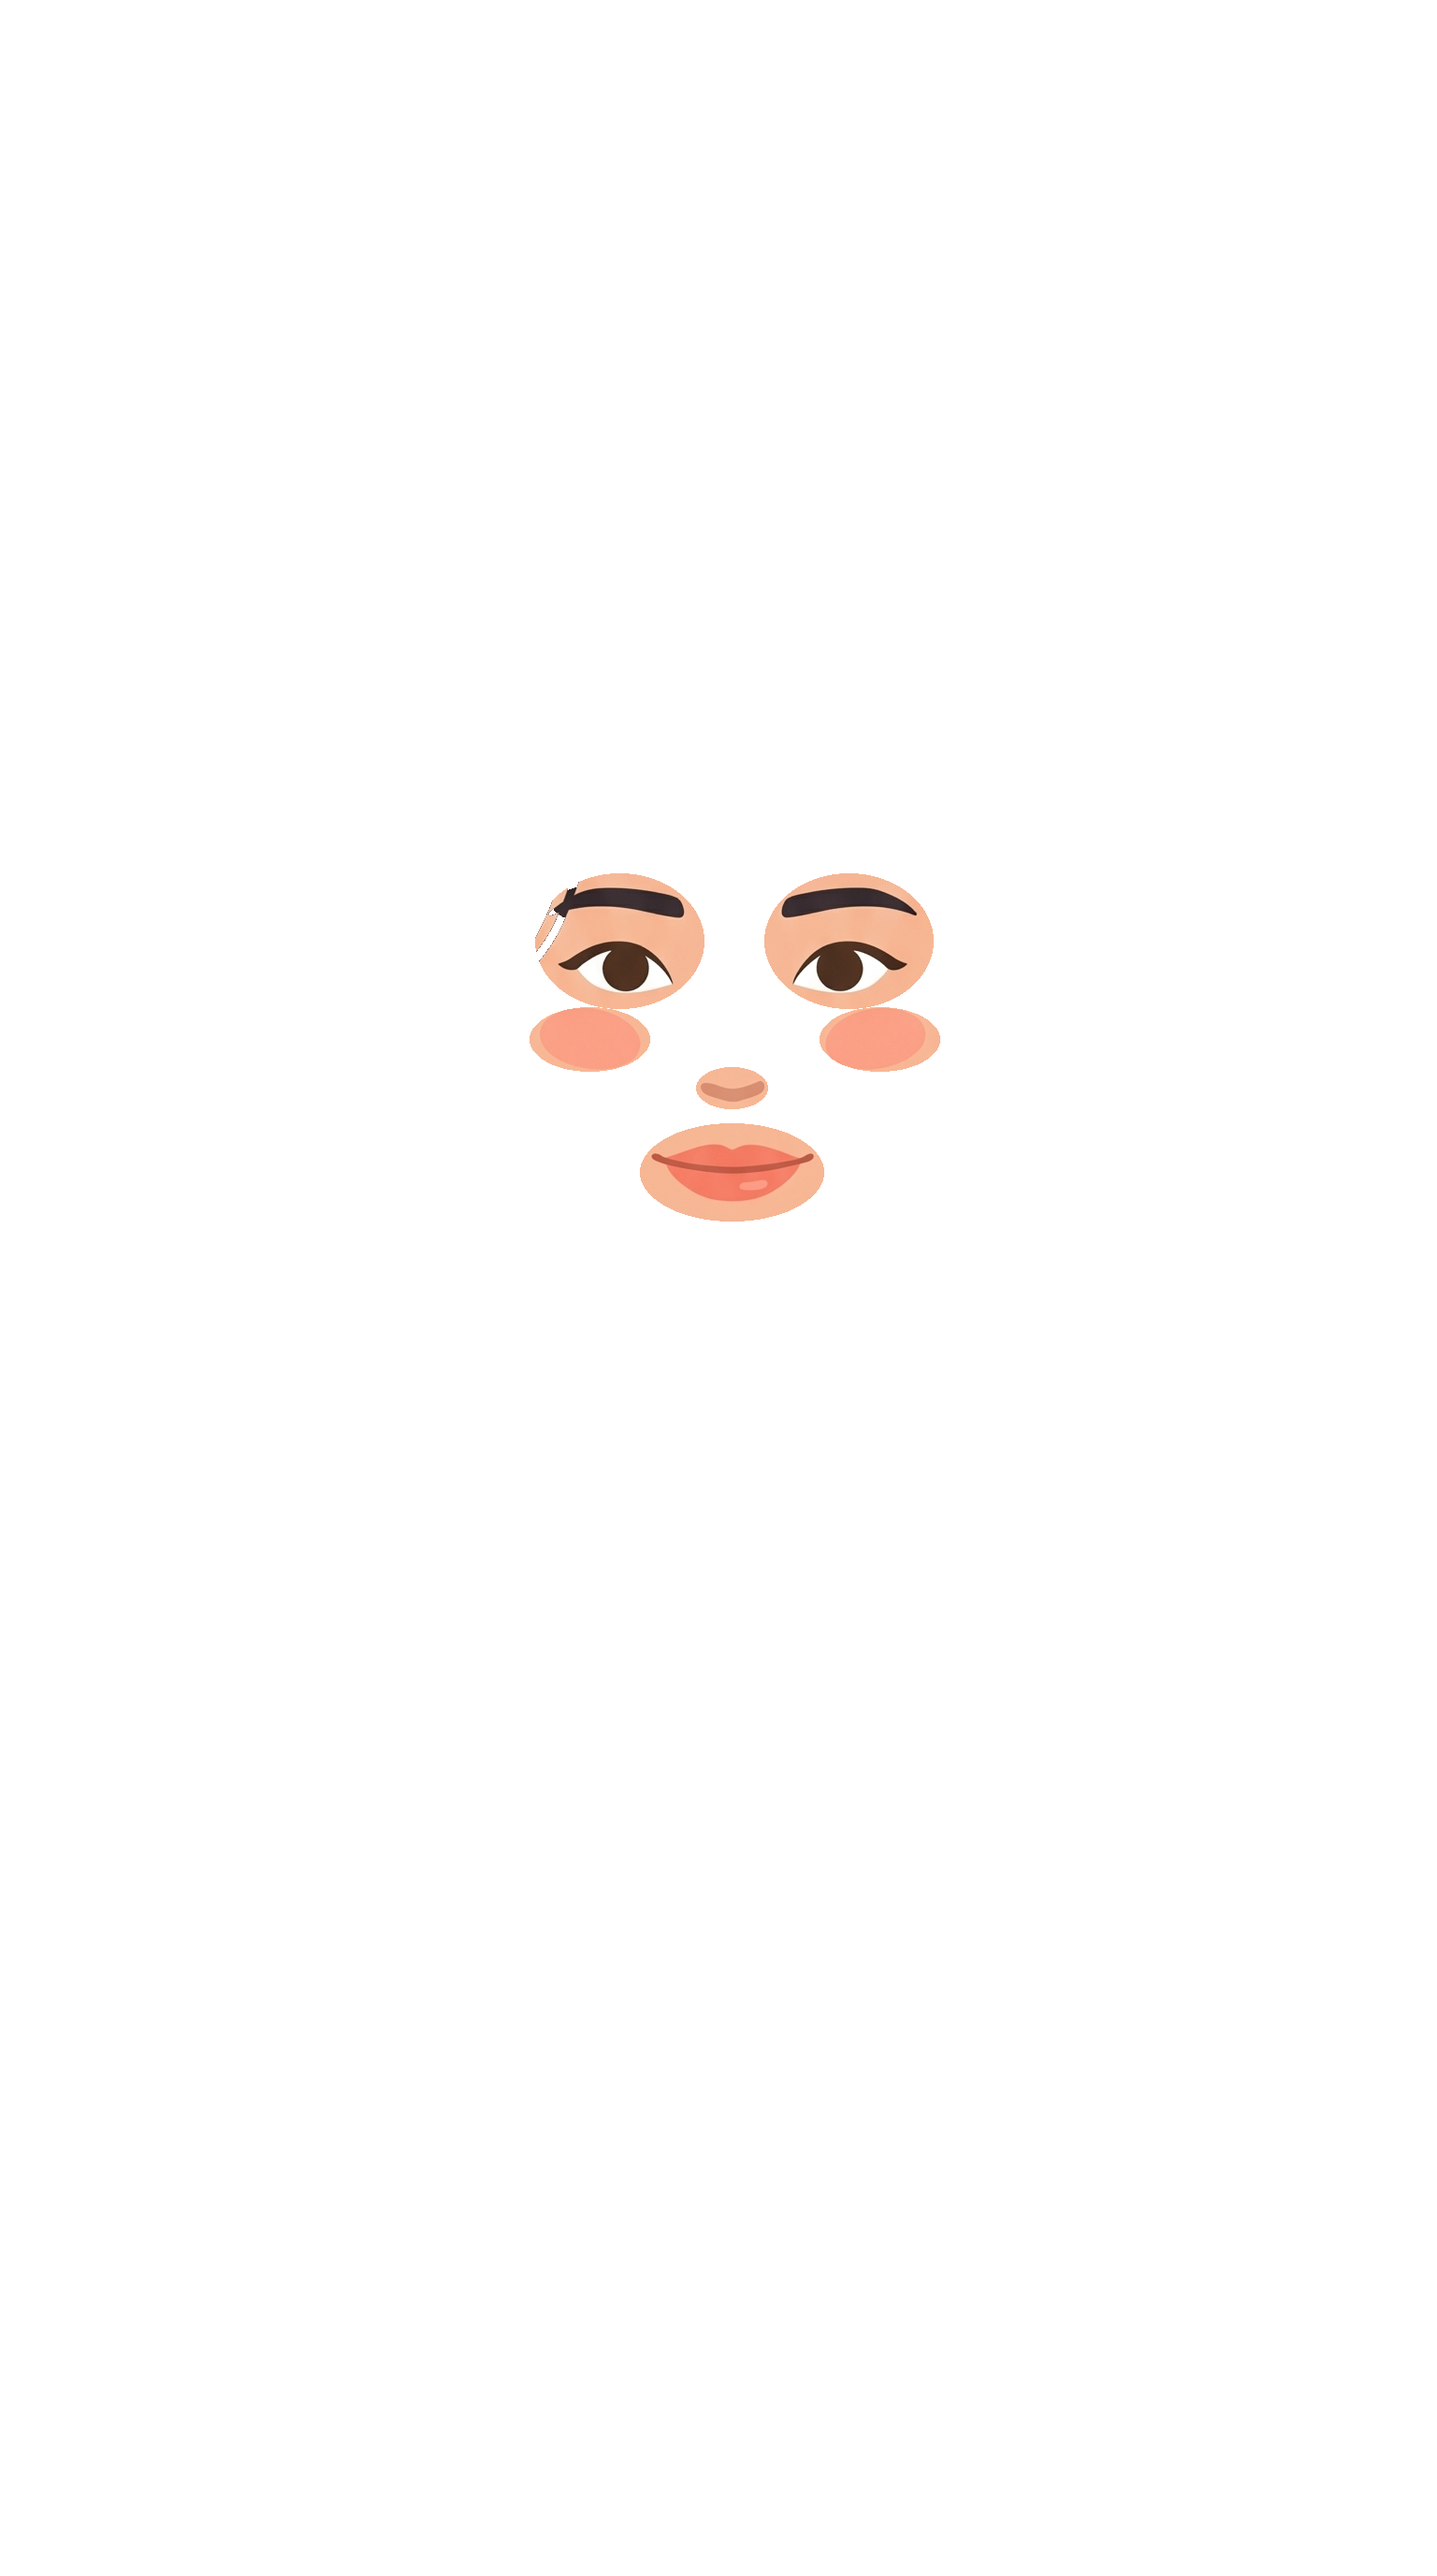
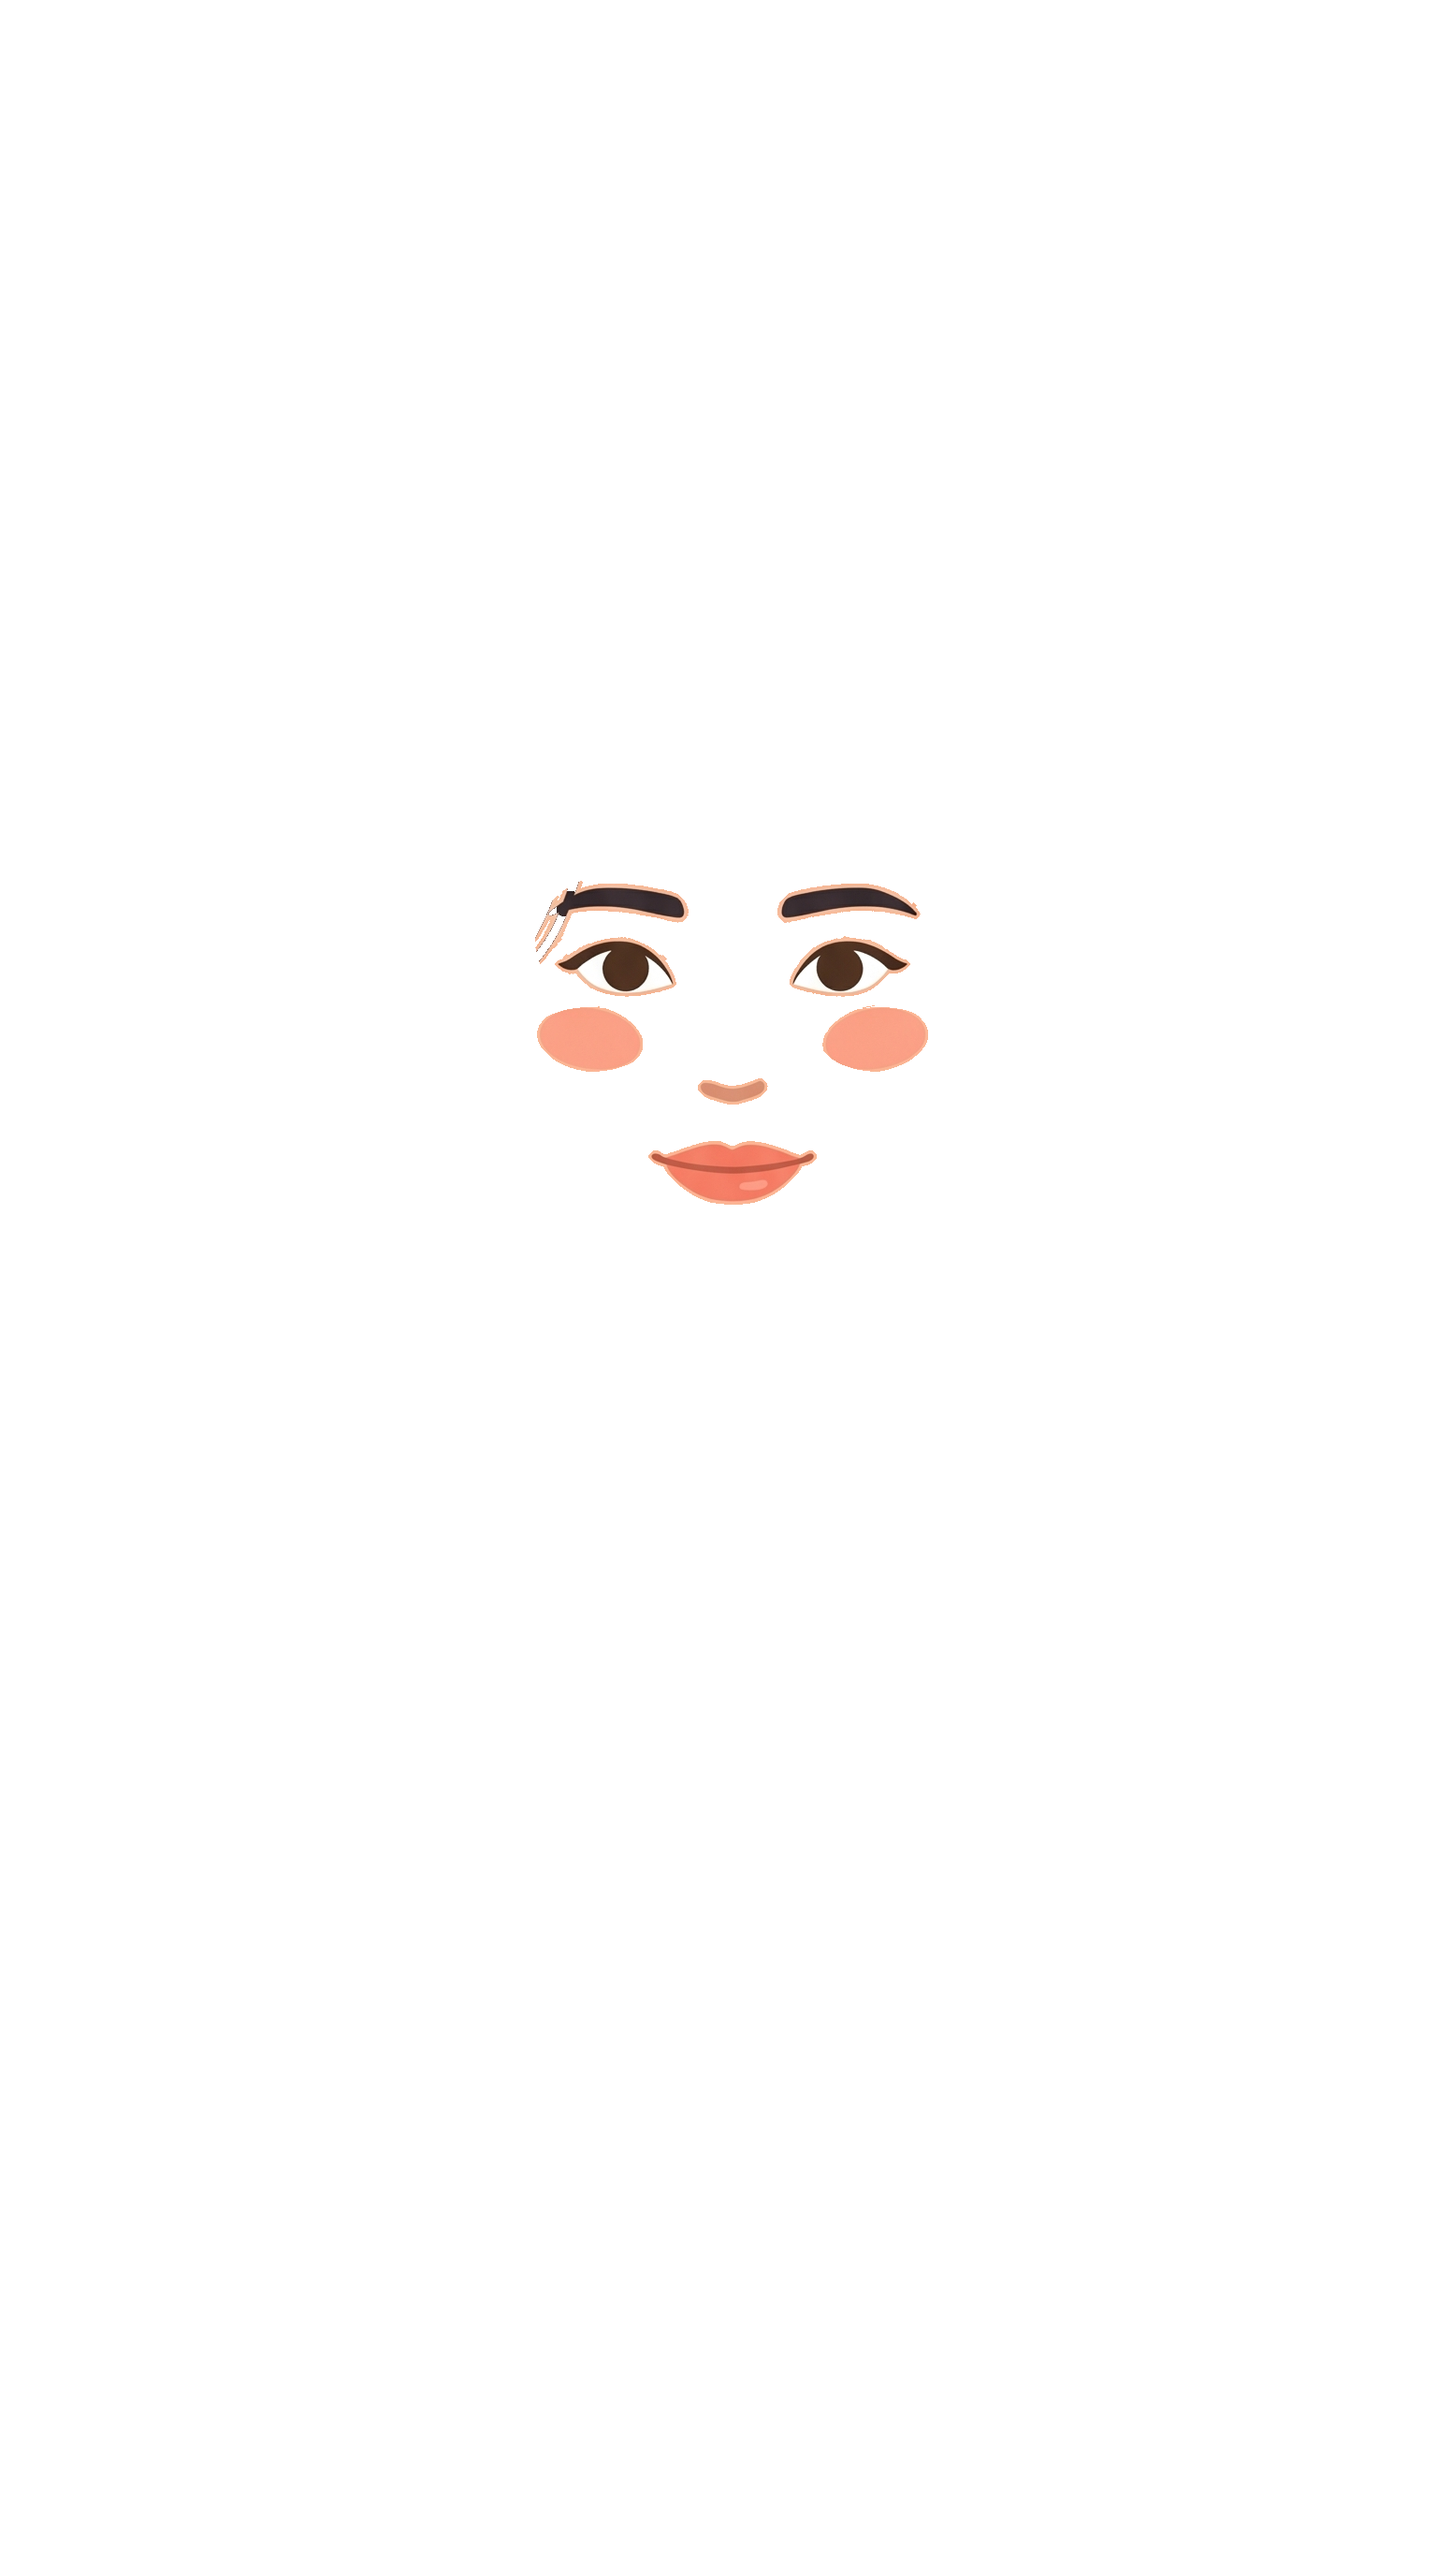
fix(寧寧): 轉頭改成脖子左右轉、不歪頭不晃；眉尾髮絲不再斷開
Edward 10/26：頭不要這樣晃動，脖子左轉一點、右轉一點；左眉那裡有問題。
- 動作：拿掉歪頭與來回擺，改成大部分時間正對、偶爾往左/右轉一點停一兩秒再回來（臨界阻尼彈簧、約 0.6 秒到位）；
  轉的時候整顆頭往那側移、遠側收窄；身體只留呼吸
- 眉尾斷開：橫過眉尾的髮絲跟眉毛黏在一起被當成五官。五官改為跟頭完全一體（不再相對移動），
  另加「臉上細髮絲」前景層疊在五官上面；五官層只收五官本身、不夾帶皮膚
- 大塊被髮絲圍住的背景不跟著頭走（避免轉頭蓋到脖子）

Changed region(s): [[0.5312, 0.3125, 0.6562, 0.4062], [0.375, 0.3125, 0.5, 0.4062], [0.4375, 0.4062, 0.5938, 0.5]]

diff --git a/web/src/companion-face.js b/web/src/companion-face.js
@@ -16,6 +16,7 @@
     layers: {
       body: DIR + 'body.webp', head: DIR + 'head.webp', feat: DIR + 'feat.webp',
       half: DIR + 'mouth-half.webp', open: DIR + 'mouth-open.webp', eyes: DIR + 'eyes-closed.webp',
+      front: DIR + 'hair-front.webp',
     },
     faceMask: DIR + 'facemask.png',   // 臉的範圍：五官只准畫在這裡面
   };
@@ -37,6 +38,7 @@
     sampleLevel: null,
     _pollTimer: 0, _lvl: -1, _lvlAt: 0, _gainMax: 0.06, _open: 0, _mouth: 'closed', _mouthSince: 0,
     _blinkUntil: 0, _nextBlink: 0, _secondBlinkAt: 0, _syl: 0, _sylUntil: 0, _nod: 0, _still: false,
+    _look: 0, _lookVel: 0, _lookTarget: 0, _nextLook: 0,
 
     mount: function (host) {
       if (this.root || !host) return !!this.root;
@@ -56,6 +58,8 @@
       this.feat = el('ff-part ff-feat', this.faceClip);
       // 疊放順序固定：五官 → 嘴 → 閉眼放最後（8/12 眨眼鬼影教訓：覆蓋貼圖一律畫在最上面）
       ['feat', 'half', 'open', 'eyes'].forEach(function (k) { F.layer[k] = F._img(k, F.feat); });
+      // 垂在臉上的細髮絲另外一層、疊在五官上面，跟著頭動——橫過眉尾的那縷才不會被眉毛蓋住或斷開
+      this.layer.front = this._img('front', this.head);
       host.appendChild(root);
       // 淺色背景：頂部名字／計時改深色字（白字實測只有 2.2:1，看不清楚）
       var screen = host.closest('.face-screen');
@@ -189,21 +193,32 @@
       this._show('eyes', now < this._blinkUntil);
 
       if (this._still) return;
-      // 身體：4.2 秒一次呼吸（胸口微微起伏）＋7.3 秒一次很輕的重心左右晃，以畫面底邊為軸
+      // 身體：只有呼吸（4.2 秒一次、胸口微微起伏），以畫面底邊為軸；不左右晃
       var br = Math.sin(t * 2 * Math.PI / 4.2);
-      var sway = Math.sin(t * 2 * Math.PI / 7.3) * 0.5;
-      this.body.style.transform = 'translateY(' + (-br * 0.22).toFixed(3) + '%) rotate(' + sway.toFixed(3) + 'deg) scale('
+      this.body.style.transform = 'translateY(' + (-br * 0.2).toFixed(3) + '%) scale('
         + (1 + br * 0.002).toFixed(5) + ',' + (1 + br * 0.004).toFixed(5) + ')';
-      // 頭：兩個週期錯開的慢波疊起來，左右擺不會像鐘擺一樣規律；講話時多一點點頭。
-      // 幅度以「正常手機大小看得出來」為準（±1.6 度時女巫判定幾乎看不出在動）
-      var turn = 0.62 * Math.sin(t * 2 * Math.PI / 5.7) + 0.38 * Math.sin(t * 2 * Math.PI / 9.1 + 1.3);
-      var nodTarget = speaking ? this._open * 0.9 : 0;
+      // 頭：像真人用脖子轉頭看——大部分時間正對你，偶爾往左或往右轉一點、停一兩秒再轉回來。
+      // 不歪頭、不來回擺（Edward 10/26：頭不要這樣晃動，脖子左轉一點、右轉一點）。
+      if (now >= this._nextLook) {
+        var choices = speaking ? [0, 0, 0.7, -0.7] : [0, 0, 0.7, -0.7, 1, -1];
+        var next = this._lookTarget;
+        while (next === this._lookTarget) next = choices[Math.floor(Math.random() * choices.length)];
+        this._lookTarget = next;
+        this._nextLook = now + (next === 0 ? 2600 + Math.random() * 2600 : 1400 + Math.random() * 1600);
+      }
+      // 轉過去的速度用臨界阻尼的彈簧：起步和停下都是緩的，約 0.6 秒到位、不會晃過頭
+      var ds = dt / 1000, w = 7.5;
+      this._lookVel += (w * w * (this._lookTarget - this._look) - 2 * w * this._lookVel) * ds;
+      this._look += this._lookVel * ds;
+      var look = this._look, mag = Math.abs(look);
+      var nodTarget = speaking ? this._open : 0;
       this._nod += (nodTarget - this._nod) * (1 - Math.exp(-dt / 160));
-      var nod = 0.45 * Math.sin(t * 2 * Math.PI / 3.9 + 0.7) + this._nod;
-      this.head.style.transform = 'translate(' + (turn * 1.1).toFixed(3) + '%,' + (nod * 0.55).toFixed(3) + '%) rotate('
-        + (-turn * 3.2).toFixed(3) + 'deg)';
-      // 五官只比頭多走一點點：多太多會像臉在頭髮裡面滑動（Edward 10/26：頭髮要跟著臉一起動）
-      this.feat.style.transform = 'translate(' + (turn * 0.3).toFixed(3) + '%,' + (nod * 0.1).toFixed(3) + '%)';
+      // 轉頭：整顆頭（頭髮、髮絲、五官一體）往轉的方向移，遠的那一側稍微收窄——像臉真的轉過去。
+      // 五官不再相對頭移動：多移一點點就會讓橫過眉尾的髮絲斷開（Edward 10/26 圈出左眉）。
+      var px = this.skin.pivot[0] + (look > 0 ? 1 : -1) * 14;
+      this.head.style.transformOrigin = px.toFixed(2) + '% ' + this.skin.pivot[1] + '%';
+      this.head.style.transform = 'translate(' + (look * 1.2).toFixed(3) + '%,' + (this._nod * 0.2).toFixed(3) + '%) scaleX('
+        + (1 - mag * 0.045).toFixed(4) + ')';
     },
   };
 

diff --git a/tools/ningning-rig/build_rig.py b/tools/ningning-rig/build_rig.py
@@ -29,9 +29,14 @@ if cfg.get('hair_all_pieces'):
         if sizes[i - 1] < 20: continue
         ys_, xs_ = np.where(comp)
         if ys_.mean() > cfg['chin_y'] + 200: continue
-        if (comp & featz).sum() / comp.sum() > 0.5: continue
+        thin = ndi.binary_opening(comp, structure=np.ones((7, 7))).sum() < 0.25 * comp.sum()
+        if (comp & featz).sum() / comp.sum() > 0.5 and not thin: continue   # 細細一條的永遠算髮絲
         hair |= comp
-hair &= ~ell(cfg['brows'])            # 眉毛碰到瀏海也算五官
+# 眉毛只認「粗的那一條」：眉毛範圍裡的深色先做開運算，細髮絲會被濾掉、仍算頭髮
+brow_zone = ell(cfg['brows'])
+brow_mask = ndi.binary_opening(dark & brow_zone, structure=np.ones((9, 9)))
+brow_mask = ndi.binary_dilation(brow_mask, iterations=2) & dark & brow_zone
+hair &= ~brow_mask
 bgc = np.array(cfg['bg'], float); is_bg = np.abs(b - bgc).sum(axis=2) < 30
 # 臉＝從臉中央長出去的皮膚色，限制在下巴以上
 near_skin = (np.abs(b - skin).sum(axis=2) < 70)
@@ -41,12 +46,23 @@ lab2, _ = ndi.label(cand)
 face = lab2 == lab2[cfg['face_center'][1], cfg['face_center'][0]]
 face = ndi.binary_fill_holes(face)
 head = ndi.binary_fill_holes(hair | face)   # 頭髮之間夾的細縫也算頭，要跟著頭一起動
+# 但大塊被髮絲圍住的背景（臉頰旁那種）不算頭：跟著頭移會蓋到脖子
+bgc_e = np.array(cfg['bg'], float)
+encl = head & ~hair & ~face & (np.abs(b - bgc_e).sum(axis=2) < 40)
+lab_e, ne = ndi.label(encl)
+if ne:
+    sz_e = ndi.sum(encl, lab_e, range(1, ne + 1))
+    big = np.isin(lab_e, 1 + np.where(sz_e > 2500)[0])
+    head &= ~big
 head[cut:, :] &= hair[cut:, :]          # 下巴以下只留頭髮，脖子歸身體
 # 頭髮外緣半透明的那一圈也算頭（不是純背景色的就收進來），不然轉頭時會在原位留一條淡線
 bgc0 = np.array(cfg['bg'], float)
 ring = ndi.binary_dilation(head, iterations=3) & ~head
 head |= ring & (np.abs(b - bgc0).sum(axis=2) > 8) & (np.arange(H)[:, None] < cut + 400)
-feat_m = ell(cfg['features']) & ~hair & head
+feat_zone = ell(cfg['features']) & ~hair & head
+# 五官層只放五官本身（跟皮膚色差得多的）、不夾帶周圍皮膚——移動時才不會用皮膚蓋到旁邊的髮絲
+feat_px = (np.abs(b - skin).sum(axis=2) > 22) & feat_zone
+feat_m = ndi.binary_dilation(feat_px, iterations=3) & feat_zone
 
 def save(arr_rgb, alpha, name):
     a = np.clip(alpha, 0, 1)
@@ -97,6 +113,11 @@ save(body, body_a, 'r-body.png')
 blank = b.copy(); blank[feat_m] = skin
 save(blank, head.astype(float), 'r-head.png')
 save(b, feat_m.astype(float), 'r-feat.png')
+front = hair & ndi.binary_dilation(face, iterations=30)
+# 眉毛範圍裡「不是眉毛主體」的深色細線（橫過眉尾的髮絲）也放前景層，永遠疊在眉毛上面
+brow_core = ndi.binary_opening(dark & brow_zone, structure=np.ones((11, 11)))
+front |= dark & ndi.binary_dilation(brow_zone, iterations=12) & ~ndi.binary_dilation(brow_core, iterations=1)
+save(b, front.astype(float), 'r-front.png')
 # 臉的範圍（頭層扣掉頭髮）：五官層只准畫在這裡面，轉頭時跑出臉邊的部分自動藏起來
 facezone = head & ~hair
 save(np.full((H, W, 3), 255.0), facezone.astype(float), 'r-facemask.png')
